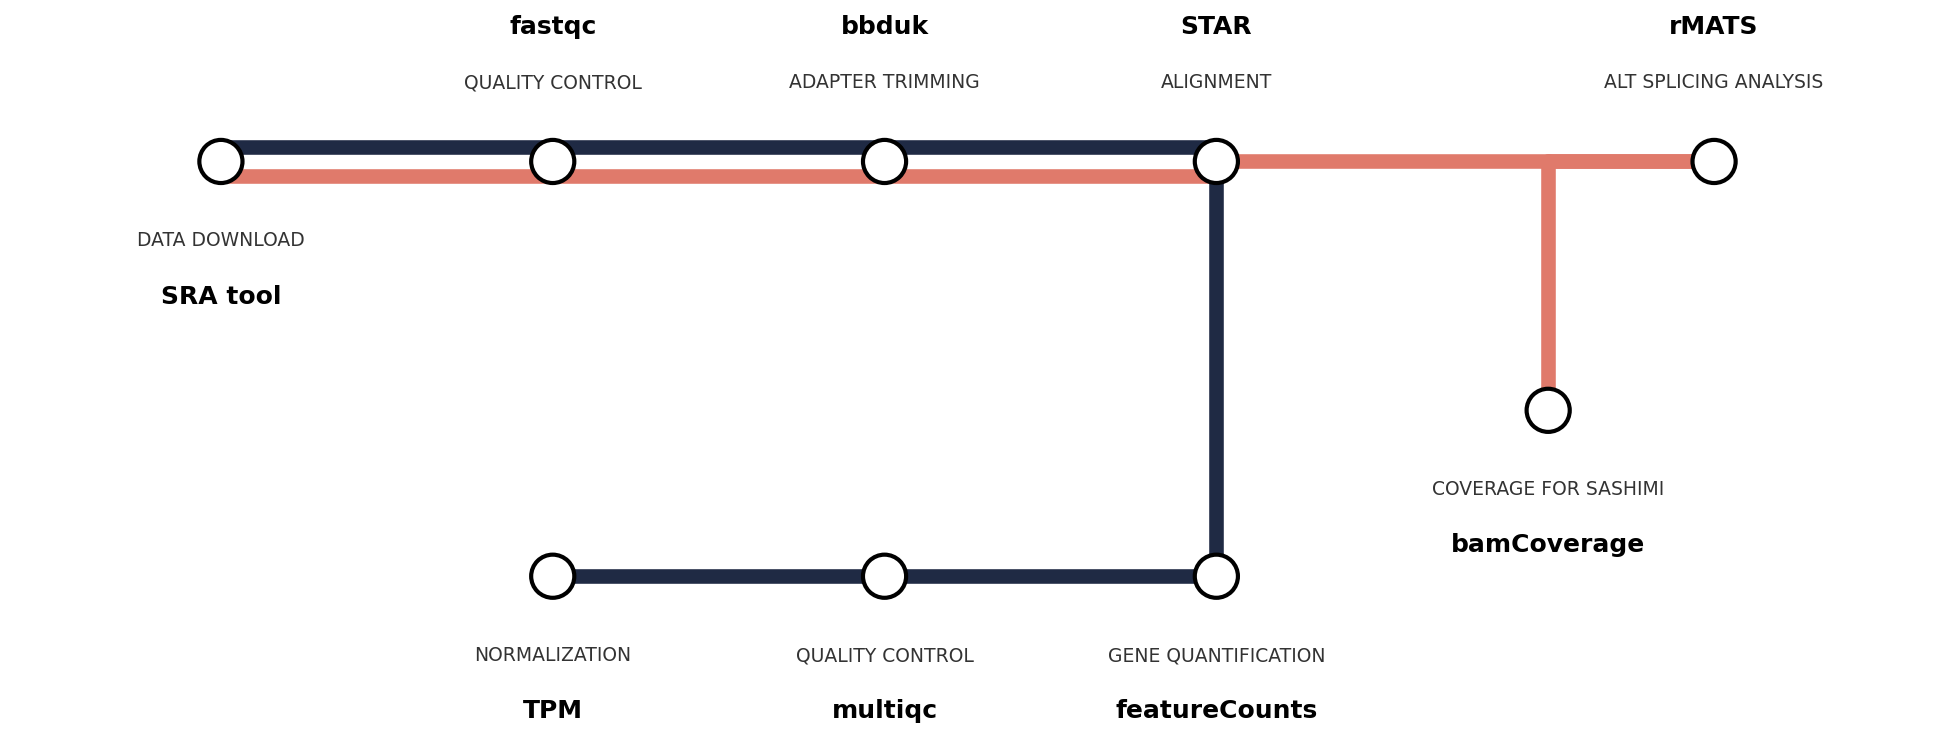
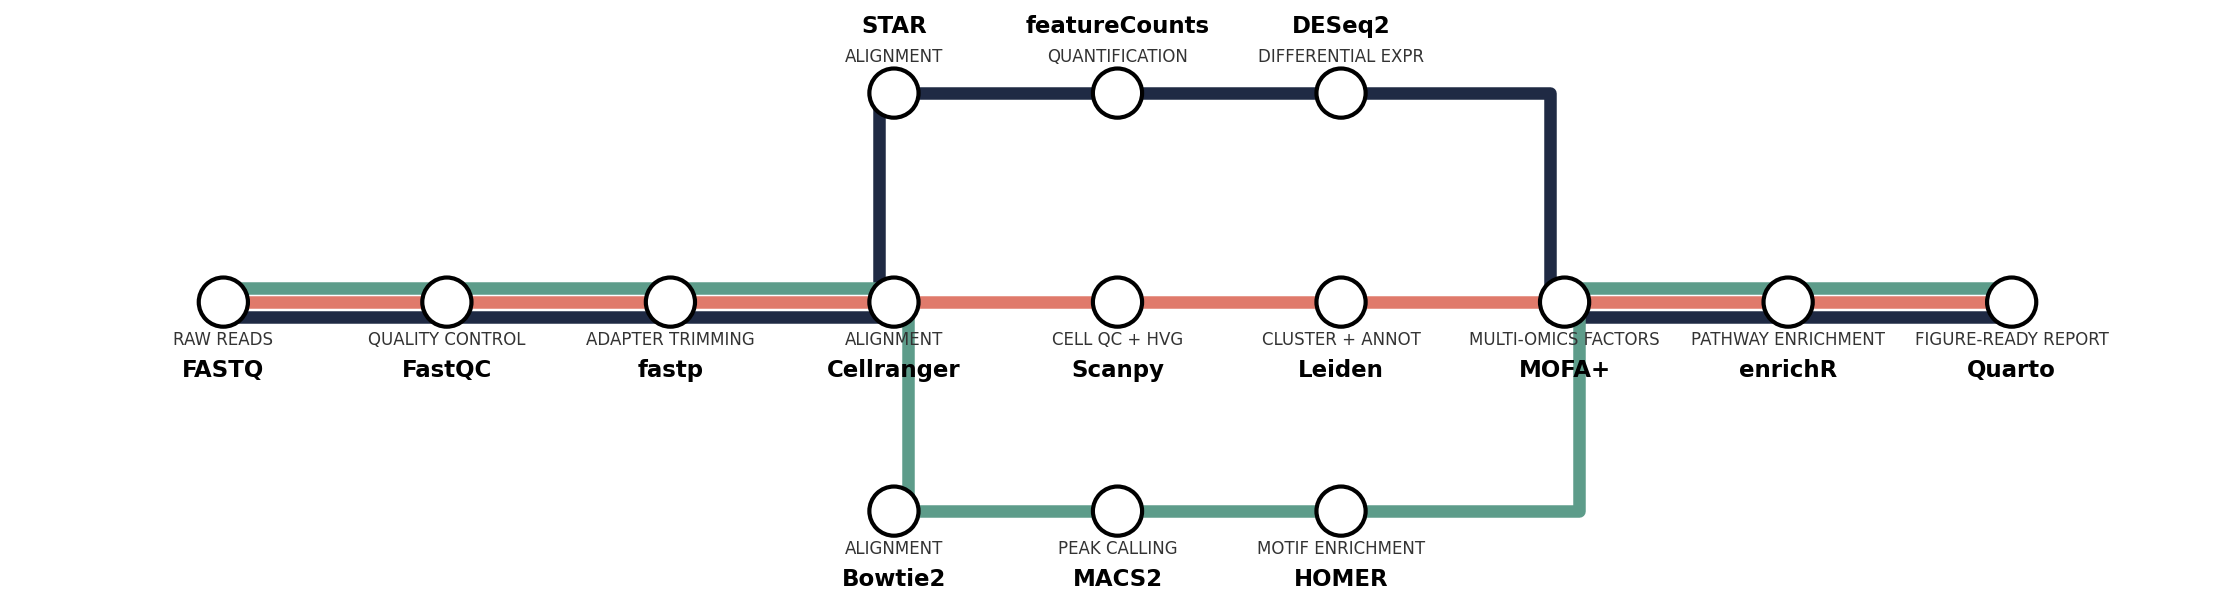
renderer: continuous-track offsets, rounded L-bends, tighter labels
- Each line now keeps a single offset across its whole route, taken from
  its largest cohort, so tracks stay continuous past splits.
- Each station shifts to the centroid of the lines passing through it,
  so a single-line station sits exactly on its line's track.
- L-bends draw as a single Line2D so solid_joinstyle='round' rounds
  the corner instead of a hard 90 degrees.
- Tighter default label spacing (label_dy_main/_sub) and smaller fonts.
- Replace the example with a multi-omics workflow (bulk RNA-seq +
  scRNA-seq + ATAC-seq) sharing a QC trunk and integration trunk.

diff --git a/metroplot.py b/metroplot.py
@@ -34,11 +34,13 @@ class Line:
 
 @dataclass
 class Diagram:
-    track_spacing: float = 0.18
-    station_radius: float = 0.13
-    line_width: float = 7.0
-    label_font: int = 12
-    sub_font: int = 9
+    track_spacing: float = 0.13
+    station_radius: float = 0.22
+    line_width: float = 6.0
+    label_font: int = 11
+    sub_font: int = 8
+    label_dy_main: float = 0.50
+    label_dy_sub: float = 0.25
     stations: dict = field(default_factory=dict)
     lines: list = field(default_factory=list)
 
@@ -62,23 +64,48 @@ class Diagram:
                     if li not in users[key]:
                         users[key].append(li)
 
+        # Each line gets a single offset across its whole route so that
+        # tracks stay continuous when they leave a shared trunk. Offset is
+        # taken from the largest cohort the line participates in.
+        line_offset: dict[int, float] = {}
+        for li in range(len(self.lines)):
+            cohorts = [c for c in users.values() if li in c]
+            if not cohorts:
+                line_offset[li] = 0.0
+                continue
+            best = max(cohorts, key=lambda c: (len(c), -c.index(li)))
+            line_offset[li] = (best.index(li) - (len(best) - 1) / 2) * self.track_spacing
+
+        # Each station shifts to the mean offset of the lines passing through
+        # it: a single-line station sits exactly on its line's track, a multi-
+        # line station sits at the centroid (lines fan out around it).
+        station_lines: dict[str, list[int]] = defaultdict(list)
+        for li, ln in enumerate(self.lines):
+            for route in ln.routes:
+                for name in route:
+                    if li not in station_lines[name]:
+                        station_lines[name].append(li)
+        station_dy: dict[str, float] = {
+            name: sum(line_offset[li] for li in lis) / len(lis)
+            for name, lis in station_lines.items()
+        }
+
         for li, ln in enumerate(self.lines):
             for route in ln.routes:
                 for a, b in zip(route[:-1], route[1:]):
-                    cohort = users[tuple(sorted([a, b]))]
-                    offset = (cohort.index(li) - (len(cohort) - 1) / 2) * self.track_spacing
-                    self._draw_segment(ax, self.stations[a], self.stations[b], ln, offset)
+                    self._draw_segment(ax, self.stations[a], self.stations[b], ln, line_offset[li])
 
         for s in self.stations.values():
-            ax.add_patch(Circle((s.x, s.y), self.station_radius,
+            cy = s.y + station_dy.get(s.name, 0.0)
+            ax.add_patch(Circle((s.x, cy), self.station_radius,
                                 facecolor="white", edgecolor="black",
                                 linewidth=2.0, zorder=10))
             if s.label:
-                self._draw_label(ax, s)
+                self._draw_label(ax, s, cy)
 
         ax.set_aspect("equal")
         ax.axis("off")
-        ax.margins(0.12)
+        ax.margins(0.10)
         return ax
 
     def _draw_segment(self, ax, sa, sb, ln, offset):
@@ -86,26 +113,27 @@ class Diagram:
         kw = dict(color=ln.color, linewidth=self.line_width,
                   solid_capstyle="round", solid_joinstyle="round", zorder=5)
 
+        # L-bends are drawn as a single Line2D so solid_joinstyle="round"
+        # rounds the corner. Both endpoints carry the line's offset so that
+        # consecutive segments meet on the same track without a kink.
         if y1 == y2:
             ax.plot([x1, x2], [y1 + offset, y1 + offset], **kw)
         elif x1 == x2:
             ax.plot([x1 + offset, x1 + offset], [y1, y2], **kw)
         elif ln.bend == "hv":
             cx, cy = x2 + offset, y1 + offset
-            ax.plot([x1, cx], [cy, cy], **kw)
-            ax.plot([cx, cx], [cy, y2], **kw)
+            ax.plot([x1, cx, cx], [cy, cy, y2 + offset], **kw)
         else:
             cx, cy = x1 + offset, y2 + offset
-            ax.plot([cx, cx], [y1, cy], **kw)
-            ax.plot([cx, x2], [cy, cy], **kw)
+            ax.plot([cx, cx, x2], [y1 + offset, cy, cy], **kw)
 
-    def _draw_label(self, ax, s):
+    def _draw_label(self, ax, s, cy):
         if s.label_pos == "above":
-            dy_main, dy_sub, va = 0.74, 0.42, "bottom"
+            dy_main, dy_sub, va = self.label_dy_main, self.label_dy_sub, "bottom"
         else:
-            dy_main, dy_sub, va = -0.74, -0.42, "top"
-        ax.text(s.x, s.y + dy_main, s.label, ha="center", va=va,
-                fontweight="bold", fontsize=self.label_font)
+            dy_main, dy_sub, va = -self.label_dy_main, -self.label_dy_sub, "top"
+        ax.text(s.x, cy + dy_main, s.label, ha="center", va=va,
+                fontweight="bold", fontsize=self.label_font, zorder=15)
         if s.sub:
-            ax.text(s.x, s.y + dy_sub, s.sub, ha="center", va=va,
-                    fontsize=self.sub_font, color="#333")
+            ax.text(s.x, cy + dy_sub, s.sub, ha="center", va=va,
+                    fontsize=self.sub_font, color="#333", zorder=15)

diff --git a/example.py b/example.py
@@ -1,31 +1,53 @@
-"""Example: an RNA-seq pipeline rendered as a subway map."""
+"""Example: a multi-omics pipeline (bulk RNA-seq, scRNA-seq, ATAC-seq)
+sharing an upstream QC trunk and a downstream integration trunk."""
 import matplotlib.pyplot as plt
 
 from metroplot import Diagram
 
-NAVY = "#1f2a44"
-SALMON = "#e07a6b"
+NAVY  = "#1f2a44"
+ORANGE = "#e07a6b"
+GREEN = "#5d9c8a"
 
 d = Diagram()
-(d.station("sra",           0.0,  0.0, "SRA tool",      "DATA DOWNLOAD", "below")
-  .station("fastqc",        2.0,  0.0, "fastqc",        "QUALITY CONTROL")
-  .station("bbduk",         4.0,  0.0, "bbduk",         "ADAPTER TRIMMING")
-  .station("star",          6.0,  0.0, "STAR",          "ALIGNMENT")
-  .station("rmats",         9.0,  0.0, "rMATS",         "ALT SPLICING ANALYSIS")
-  .station("bamcoverage",   8.0, -1.5, "bamCoverage",   "COVERAGE FOR SASHIMI", "below")
-  .station("featurecounts", 6.0, -2.5, "featureCounts", "GENE QUANTIFICATION", "below")
-  .station("multiqc",       4.0, -2.5, "multiqc",       "QUALITY CONTROL", "below")
-  .station("tpm",           2.0, -2.5, "TPM",           "NORMALIZATION", "below"))
 
-d.line("splicing", SALMON, [
-    ["sra", "fastqc", "bbduk", "star", "rmats"],
-    ["rmats", "bamcoverage"],
+# Shared trunk
+(d.station("fastq",   0.0,  0.0, "FASTQ",          "RAW READS", "below")
+  .station("fastqc",  2.0,  0.0, "FastQC",         "QUALITY CONTROL", "below")
+  .station("fastp",   4.0,  0.0, "fastp",          "ADAPTER TRIMMING", "below"))
+
+# Bulk RNA-seq lane (top)
+(d.station("star",     6.0,  2.0, "STAR",           "ALIGNMENT")
+  .station("fcounts",  8.0,  2.0, "featureCounts",  "QUANTIFICATION")
+  .station("deseq2",  10.0,  2.0, "DESeq2",         "DIFFERENTIAL EXPR"))
+
+# scRNA-seq lane (middle)
+(d.station("cellranger", 6.0,  0.0, "Cellranger",   "ALIGNMENT", "below")
+  .station("scanpy_qc",  8.0,  0.0, "Scanpy",       "CELL QC + HVG", "below")
+  .station("leiden",    10.0,  0.0, "Leiden",       "CLUSTER + ANNOT", "below"))
+
+# ATAC-seq lane (bottom)
+(d.station("bowtie2",   6.0, -2.0, "Bowtie2",       "ALIGNMENT", "below")
+  .station("macs2",     8.0, -2.0, "MACS2",         "PEAK CALLING", "below")
+  .station("homer",    10.0, -2.0, "HOMER",         "MOTIF ENRICHMENT", "below"))
+
+# Merge + downstream
+(d.station("mofa",     12.0,  0.0, "MOFA+",         "MULTI-OMICS FACTORS", "below")
+  .station("enrich",   14.0,  0.0, "enrichR",       "PATHWAY ENRICHMENT", "below")
+  .station("report",   16.0,  0.0, "Quarto",        "FIGURE-READY REPORT", "below"))
+
+# Lines
+d.line("bulk", NAVY, [
+    ["fastq", "fastqc", "fastp", "star", "fcounts", "deseq2", "mofa", "enrich", "report"],
 ])
-d.line("quant", NAVY, [
-    ["sra", "fastqc", "bbduk", "star", "featurecounts", "multiqc", "tpm"],
+d.line("scrna", ORANGE, [
+    ["fastq", "fastqc", "fastp", "cellranger", "scanpy_qc", "leiden", "mofa", "enrich", "report"],
+])
+d.line("atac", GREEN, [
+    ["fastq", "fastqc", "fastp", "bowtie2", "macs2", "homer", "mofa", "enrich", "report"],
 ])
 
-d.render()
+fig, ax = plt.subplots(figsize=(15, 5))
+d.render(ax)
 plt.tight_layout()
 plt.savefig("example.png", dpi=150, bbox_inches="tight")
 print("wrote example.png")

diff --git a/tests/test_metroplot.py b/tests/test_metroplot.py
@@ -81,10 +81,9 @@ def test_bend_hv_vs_vh_corner_differs():
                         .station("b", 3, -2))
     ax_hv = stations().line("l", "#000", [["a", "b"]], bend="hv").render()
     ax_vh = stations().line("l", "#000", [["a", "b"]], bend="vh").render()
-    # hv corner is at (3, 0); vh corner is at (0, -2). Verify by checking
-    # whether any plotted segment hits y=-2 at x=0 (vh) vs x=3 (hv).
-    def corners(ax):
-        return [(ln.get_xdata()[0], ln.get_ydata()[0],
-                 ln.get_xdata()[-1], ln.get_ydata()[-1]) for ln in ax.get_lines()]
-    assert corners(ax_hv) != corners(ax_vh)
+    # The L-bend is a single Line2D with three points; the middle point is
+    # the corner and differs between hv and vh.
+    def points(ax):
+        return [(tuple(ln.get_xdata()), tuple(ln.get_ydata())) for ln in ax.get_lines()]
+    assert points(ax_hv) != points(ax_vh)
     plt.close("all")
